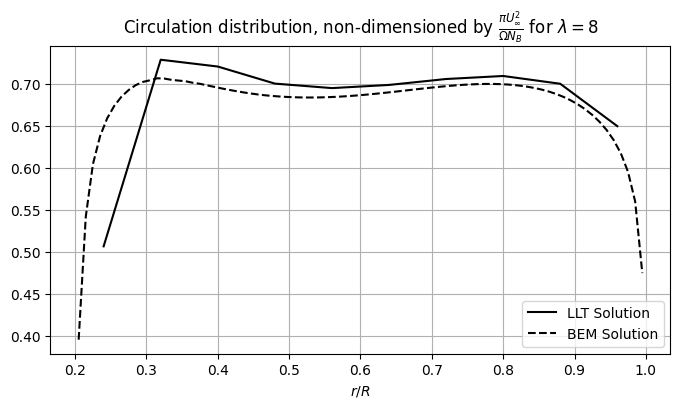
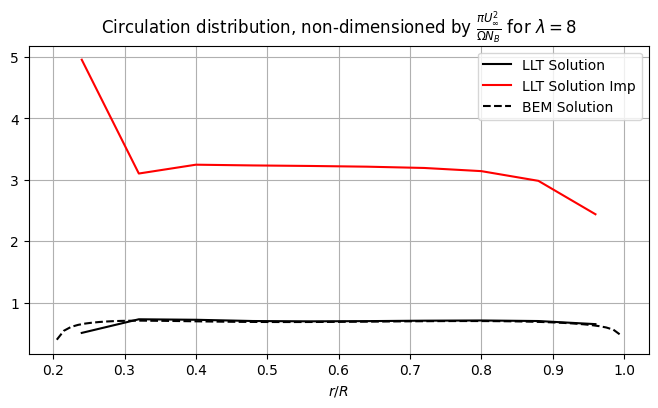
Impermeability Conditions Semi-implemeted

diff --git a/main.py b/main.py
@@ -95,7 +95,7 @@ choice = input('Select an option: ')
 
 if choice == '1':
         # Compute Lifting Line Solution
-        [vortexSystem,controlPoints,df_axial,df_tan] = fcn.lifting_line(averageFactor,spacing,mu,mu_root,mu_tip,chord_distribution,R,Ncp,alpha_BEM,U_inf,a_axial,Omega,a_tan,psi,polar_alpha,polar_CL,polar_CD,N_B,convFac,r_vortex,pitch,Loutlet,dx)
+        [vortexSystem,controlPoints,df_axial,df_tan,gamma_imp] = fcn.lifting_line(averageFactor,spacing,mu,mu_root,mu_tip,chord_distribution,R,Ncp,alpha_BEM,U_inf,a_axial,Omega,a_tan,psi,polar_alpha,polar_CL,polar_CD,N_B,convFac,r_vortex,pitch,Loutlet,dx)
 
 
         # Validation plots
@@ -139,6 +139,7 @@ if choice == '1':
         plt.title(r'Circulation distribution, non-dimensioned by $\frac{\pi U_\infty^2}{\Omega N_B}$ for $\lambda=$'+str(TSR))
         fac = np.pi * U_inf**2 / (Omega*N_B)
         plt.plot(mu_LLT,controlPoints['gamma'][0:Ncp]/fac, '-k', label='LLT Solution')
+        #plt.plot(mu_LLT,gamma_imp[0:Ncp]/fac, '-r', label='LLT Solution Imp')
         plt.plot(mu, gamma_BEM/fac, '--k', label='BEM Solution')
         plt.xlabel(r'$r/R$')
         plt.legend()
@@ -261,7 +262,7 @@ elif choice == '2':
         for i in range(len(averageFactor)):
                 
                 # Compute Lifting Line Solution
-                [vortexSystem,controlPoints,df_axial,df_tan] = fcn.lifting_line(averageFactor[i],spacing,mu,mu_root,mu_tip,chord_distribution,R,Ncp,alpha_BEM,U_inf,a_axial,Omega,a_tan,psi,polar_alpha,polar_CL,polar_CD,N_B,convFac,r_vortex,pitch,Loutlet,dx)
+                [vortexSystem,controlPoints,df_axial,df_tan,gamma_imp] = fcn.lifting_line(averageFactor[i],spacing,mu,mu_root,mu_tip,chord_distribution,R,Ncp,alpha_BEM,U_inf,a_axial,Omega,a_tan,psi,polar_alpha,polar_CL,polar_CD,N_B,convFac,r_vortex,pitch,Loutlet,dx)
                 vortex.append(vortexSystem)
                 control.append(controlPoints)
                 axial.append(df_axial)
@@ -345,7 +346,7 @@ elif choice == '3':
         for i in range(len(spacing)):
                 
                 # Compute Lifting Line Solution
-                [vortexSystem,controlPoints,df_axial,df_tan] = fcn.lifting_line(averageFactor,spacing[i],mu,mu_root,mu_tip,chord_distribution,R,Ncp,alpha_BEM,U_inf,a_axial,Omega,a_tan,psi,polar_alpha,polar_CL,polar_CD,N_B,convFac,r_vortex,pitch,Loutlet,dx)
+                [vortexSystem,controlPoints,df_axial,df_tan,gamma_imp] = fcn.lifting_line(averageFactor,spacing[i],mu,mu_root,mu_tip,chord_distribution,R,Ncp,alpha_BEM,U_inf,a_axial,Omega,a_tan,psi,polar_alpha,polar_CL,polar_CD,N_B,convFac,r_vortex,pitch,Loutlet,dx)
                 vortex.append(vortexSystem)
                 control.append(controlPoints)
                 axial.append(df_axial)
@@ -429,7 +430,7 @@ elif choice == '4':
         for i in range(len(Ncp)):
                 
                 # Compute Lifting Line Solution
-                [vortexSystem,controlPoints,df_axial,df_tan] = fcn.lifting_line(averageFactor,spacing,mu,mu_root,mu_tip,chord_distribution,R,Ncp[i],alpha_BEM,U_inf,a_axial,Omega,a_tan,psi,polar_alpha,polar_CL,polar_CD,N_B,convFac,r_vortex,pitch,Loutlet,dx)
+                [vortexSystem,controlPoints,df_axial,df_tan,gamma_imp] = fcn.lifting_line(averageFactor,spacing,mu,mu_root,mu_tip,chord_distribution,R,Ncp[i],alpha_BEM,U_inf,a_axial,Omega,a_tan,psi,polar_alpha,polar_CL,polar_CD,N_B,convFac,r_vortex,pitch,Loutlet,dx)
                 vortex.append(vortexSystem)
                 control.append(controlPoints)
                 axial.append(df_axial)
@@ -523,7 +524,7 @@ elif choice == '5':
         for i in range(len(Loutlet)):
                 
                 # Compute Lifting Line Solution
-                [vortexSystem,controlPoints,df_axial,df_tan] = fcn.lifting_line(averageFactor,spacing,mu,mu_root,mu_tip,chord_distribution,R,Ncp,alpha_BEM,U_inf,a_axial,Omega,a_tan,psi,polar_alpha,polar_CL,polar_CD,N_B,convFac,r_vortex,pitch,Loutlet[i],dx)
+                [vortexSystem,controlPoints,df_axial,df_tan,gamma_imp] = fcn.lifting_line(averageFactor,spacing,mu,mu_root,mu_tip,chord_distribution,R,Ncp,alpha_BEM,U_inf,a_axial,Omega,a_tan,psi,polar_alpha,polar_CL,polar_CD,N_B,convFac,r_vortex,pitch,Loutlet[i],dx)
                 vortex.append(vortexSystem)
                 control.append(controlPoints)
                 axial.append(df_axial)

diff --git a/functions.py b/functions.py
@@ -3,6 +3,7 @@ import matplotlib.pyplot as plt
 import numpy as np
 import pandas as pd
 import time
+from scipy.linalg import solve
 
 def a_Glauert(CT):
     CT1 = 1.816
@@ -236,6 +237,7 @@ def lifting_line(averageFactor,spacing,mu,mu_root,mu_tip,chord_distribution,R,Nc
     controlPoints["chord"] = np.empty((N_B*Ncp))
     controlPoints["twist"] = np.empty((N_B*Ncp))
     controlPoints["r"] = np.empty((N_B*Ncp))
+    controlPoints["normal"] = np.empty((3,N_B*Ncp))
 
     for j1 in range(N_B):
             for i1 in range(Ncp):
@@ -289,8 +291,8 @@ def lifting_line(averageFactor,spacing,mu,mu_root,mu_tip,chord_distribution,R,Nc
             # And the angle of attack
             controlPoints["phi"] = np.arctan(controlPoints["Uin_blade"][0,:]/controlPoints["Uin_blade"][1,:])
             controlPoints["alpha"] = controlPoints["phi"] - controlPoints["twist"] # phi - twist
+            
             # Update the Gamma 
-
             CL = np.interp(np.rad2deg(controlPoints["alpha"]), polar_alpha, polar_CL)
             CD = np.interp(np.rad2deg(controlPoints["alpha"]), polar_alpha, polar_CD)
             L = 0.5 * controlPoints["|V|bl"] ** 2 * controlPoints["chord"] * CL
@@ -306,8 +308,17 @@ def lifting_line(averageFactor,spacing,mu,mu_root,mu_tip,chord_distribution,R,Nc
             if iter > Niter:
                     break
             
+    # Compute normal vector in blade reference frame
+    norm = np.sqrt((np.cos(controlPoints["alpha"]))**2+(np.sin(controlPoints["alpha"]))**2) # determine norm of the vector            
+    controlPoints["normal"][0,:] = -np.sin(controlPoints["alpha"])/norm # x-component
+    controlPoints["normal"][1,:] = np.cos(controlPoints["alpha"])/norm # y-component
+    controlPoints["normal"][2,:] = np.zeros(N_B*Ncp) # z-component
+    b = -np.ones(N_B*Ncp)*U_inf*controlPoints["normal"][1,:]
+    gamma_imp = solve(controlPoints["matrix"][:,:,0],b)
+            
+    
     end_time = time.time()
     elapsed_time = end_time - start_time
     print('LLT Elapsed Time: ' + str(elapsed_time))
     
-    return [vortexSystem,controlPoints,df_axial,df_tan]
+    return [vortexSystem,controlPoints,df_axial,df_tan,gamma_imp]
